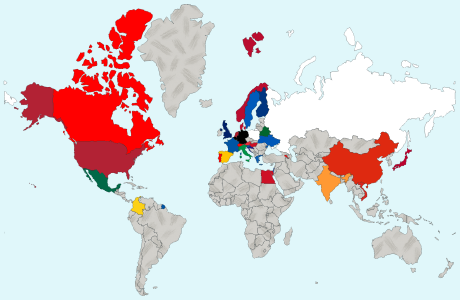
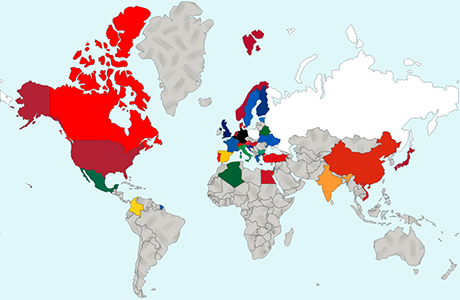
worldColors updates

diff --git a/utils/colors.ts b/utils/colors.ts
@@ -22,75 +22,82 @@ export const extraColors = {
 
 // Pour la carte du Monde
 export const worldColors = [
+  "#006233", // Algeria (Algerian green)
+  "#006233", // Algérie (vert algérien)
   "#000000", // Allemagne (noir)
-  "#FF0000", // Armenia (rouge)
+  "#FF0000", // Armenia (red)
   "#FF0000", // Arménie (rouge)
-  "#ED2939", // Austria (rouge autrichien)
+  "#ED2939", // Austria (Austrian red)
   "#ED2939", // Autriche (rouge autrichien)
-  "#00662E", // Belarus (vert)
+  "#00662E", // Belarus (green)
   "#000000", // Belgique (noir)
-  "#000000", // Belgium (noir)
+  "#000000", // Belgium (black)
   "#00662E", // Biélorussie (vert)
-  "#00966E", // Bulgaria (vert bulgare)
+  "#00966E", // Bulgaria (Bulgarian green)
   "#00966E", // Bulgarie (vert bulgare)
-  "#FF0000", // Canada (rouge)
+  "#FF0000", // Canada (red)
   "#DE2910", // Chine (rouge chinois)
-  "#FCD116", // Colombia (jaune)
+  "#FCD116", // Colombia (yellow)
   "#FCD116", // Colombie (jaune)
-  "#171796", // Croatia (bleu croate)
+  "#171796", // Croatia (Croatian blue)
   "#171796", // Croatie (bleu croate)
-  "#FFFFFF", // Czechoslovakia (blanc)
+  "#FFFFFF", // Czechoslovakia (white)
   "#C60C30", // Danemark (rouge danois)
-  "#C60C30", // Denmark (rouge danois)
+  "#C60C30", // Denmark (Danish red)
+  "#CE1126", // Egypt (Egyptian red)
+  "#CE1126", // Égypte (rouge égyptien)
   "#FFC400", // Espagne (jaune)
-  "#0072CE", // Estonia (bleu estonien)
+  "#0072CE", // Estonia (Estonian blue)
   "#0072CE", // Estonie (bleu estonien)
-  "#B22234", // États-Unis d'Amérique (Old Glory Red)
-  "#003580", // Finland (bleu finlandais)
+  "#B22234", // États-Unis d'Amérique (rouge Old Glory)
+  "#003580", // Finland (Finnish blue)
   "#003580", // Finlande (bleu finlandais)
-  "#0055A4", // France (bleu français)
-  "#000000", // Germany (noir)
+  "#0055A4", // France (French blue)
+  "#000000", // Germany (black)
   "#0D5EAF", // Grèce (bleu grec)
-  "#0D5EAF", // Greece (bleu grec)
+  "#0D5EAF", // Greece (Greek blue)
   "#CE1126", // Hongrie (rouge hongrois)
-  "#CE1126", // Hungary (rouge hongrois)
+  "#CE1126", // Hungary (Hungarian red)
+  "#FF9933", // Inde (orange safran indien)
+  "#FF9933", // India (Indian saffron orange)
+  "#4169E1", // Israel (Israeli royal blue)
+  "#4169E1", // Israël (bleu royal israélien)
   "#009246", // Italie (vert italien)
-  "#009246", // Italy (vert italien)
-  "#BC002D", // Japan (rouge japonais)
+  "#009246", // Italy (Italian green)
+  "#BC002D", // Japan (Japanese red)
   "#BC002D", // Japon (rouge japonais)
-  "#006847", // Mexico (vert mexicain)
+  "#006847", // Mexico (Mexican green)
   "#006847", // Mexique (vert mexicain)
   "#00AEEF", // Monde (bleu « Terre »)
-  "#AE1C28", // Netherlands (rouge néerlandais)
+  "#AE1C28", // Netherlands (Dutch red)
   "#BA0C2F", // Norvège (rouge norvégien)
-  "#BA0C2F", // Norway (rouge norvégien)
+  "#BA0C2F", // Norway (Norwegian red)
   "#AE1C28", // Pays-Bas (rouge néerlandais)
-  "#DE2910", // People's Republic of China (rouge chinois)
-  "#FFFFFF", // Poland (blanc)
+  "#DE2910", // People's Republic of China (Chinese red)
+  "#FFFFFF", // Poland (white)
   "#FFFFFF", // Pologne (blanc)
-  "#FF0000", // Portugal (rouge portugais)
+  "#FF0000", // Portugal (Portuguese red)
   "#012169", // Royaume-Uni (bleu Union Jack)
-  "#FFFFFF", // Russian Federation (blanc)
+  "#FFFFFF", // Russian Federation (white)
   "#FFFFFF", // Russie (blanc)
-  "#005DA4", // Slovenia (bleu slovène)
+  "#005DA4", // Slovenia (Slovenian blue)
   "#005DA4", // Slovénie (bleu slovène)
-  "#FFC400", // Spain (jaune)
+  "#FFC400", // Spain (yellow)
   "#005BBB", // Suède (bleu suédois)
   "#FF0000", // Suisse (rouge)
-  "#005BBB", // Sweden (bleu suédois)
-  "#FF0000", // Switzerland (rouge)
+  "#005BBB", // Sweden (Swedish blue)
+  "#FF0000", // Switzerland (red)
   "#FFFFFF", // Tchécoslovaquie (blanc)
-  "#E30A17", // Türkiye (rouge turc)
+  "#E30A17", // Türkiye (Turkish red)
   "#E30A17", // Turquie (rouge turc)
-  "#0057B8", // Ukraine (bleu ukrainien)
-  "#012169", // United Kingdom (bleu Union Jack)
+  "#0057B8", // Ukraine (Ukrainian blue)
+  "#012169", // United Kingdom (Union Jack blue)
   "#B22234", // United States of America (Old Glory Red)
-  "#DA251D", // Vietnam (rouge vietnamien)
+  "#DA251D", // Vietnam (Vietnamese red)
 ];
 
 export const tagColorsEN = [
   "#7F7F7F", // Abstract (conceptual gray)
-  "#D2B48C", // Algeria (tan oriental)
   "#DAA520", // Allegory (antique gold)
   "#C19A6B", // Animals (light sandy brown)
   "#A0A0A0", // Architecture (architectural gray)
@@ -100,17 +107,14 @@ export const tagColorsEN = [
   "#000000", // Death (black)
   "#FFD700", // Drawing (golden yellow)
   "#87CEFA", // Dream (soft sky blue)
-  "#CE1126", // Egypt (Egyptian red)
   "#800080", // Fantasy (imaginary purple)
   "#FF4500", // Fire (fire orange)
   "#FF69B4", // Flowers (vivid floral pink)
   "#66CDAA", // French Polynesia (tropical turquoise)
   "#FFD700", // Gold (pure gold)
   "#6B8E23", // History (dark olive green)
-  "#FF9933", // India (Indian saffron)
   "#708090", // Industry (slate gray)
   "#F4A460", // Interior (warm sand)
-  "#4169E1", // Israel (royal Israeli blue)
   "#228B22", // Landscape (forest green)
   "#FF1493", // Love (passionate pink)
   "#9370DB", // Monarchy (monarchic violet)
@@ -136,7 +140,6 @@ export const tagColorsEN = [
 
 export const tagColorsFR = [
   "#7F7F7F", // Abstrait (gris conceptuel)
-  "#D2B48C", // Algérie (brun oriental)
   "#DAA520", // Allégorie (doré antique)
   "#FF1493", // Amour (rose passion)
   "#C19A6B", // Animaux (brun sable clair)
@@ -152,10 +155,8 @@ export const tagColorsFR = [
   "#FF69B4", // Fleurs (rose vif floral)
   "#8B0000", // Guerre (rouge sombre)
   "#6B8E23", // Histoire (vert olive foncé)
-  "#FF9933", // Inde (orange safran indien)
   "#708090", // Industrie (gris ardoise)
   "#F4A460", // Intérieur (sable chaud)
-  "#4169E1", // Israël (bleu royal israélien)
   "#00CED1", // Le temps (turquoise)
   "#1E90FF", // Mer (bleu océan)
   "#9370DB", // Monarchie (violet monarchique)
@@ -177,5 +178,4 @@ export const tagColorsFR = [
   "#4682B4", // Transport (bleu acier)
   "#B8860B", // Trompe-l'œil (jaune ocre illusionniste)
   "#778899", // Urbain (gris béton)
-  "#CE1126", // Égypte (rouge égyptien)
 ];

diff --git a/utils/constants.ts b/utils/constants.ts
@@ -68,6 +68,8 @@ export const INDICATORS_MOVEMENTS: string[] = [
 
 
 export const NATIONALITIES_LABELS: string[] = [
+  "Algeria",
+  "Algérie",
   "Allemagne",
   "Armenia",
   "Arménie",
@@ -88,6 +90,8 @@ export const NATIONALITIES_LABELS: string[] = [
   "Czechoslovakia",
   "Danemark",
   "Denmark",
+  "Egypt",
+  "Égypte",
   "Espagne",
   "Estonia",
   "Estonie",
@@ -100,6 +104,10 @@ export const NATIONALITIES_LABELS: string[] = [
   "Greece",
   "Hongrie",
   "Hungary",
+  "Inde",
+  "India",
+  "Israel",
+  "Israël",
   "Italie",
   "Italy",
   "Japan",
@@ -251,7 +259,7 @@ export const TAGS: TagConst[] = [
     type: 0
   },
   { 
-    name: "Algeria", name_en: "Algérie", slug: "algeria",
+    name: "Algérie", name_en: "Algeria", slug: "algeria",
     info: "L’Algérie a inspiré l’art orientaliste avec ses paysages désertiques, ses scènes de rue et son patrimoine architectural unique.",
     info_en: "Algeria inspired Orientalist art with its desert landscapes, street scenes, and unique architectural heritage.",
     type: 1

diff --git a/islands/WorldMap.tsx b/islands/WorldMap.tsx
@@ -334,12 +334,9 @@ export default function WorldMap(
     new Set([...NATIONALITIES_LABELS, ...artsTagsCountries]),
   );
   //console.log(allCountries);
-  const tagColors = lng === "fr" ? tagColorsFR : tagColorsEN;
-  const allColors = [...worldColors, ...tagColors];
-  //console.log(allColors);
   const colorMap: Record<string, string> = {};
   allCountries.forEach((name, i) => {
-    colorMap[name] = allColors[i % allColors.length];
+    colorMap[name] = worldColors[i % worldColors.length];
   });
 
 